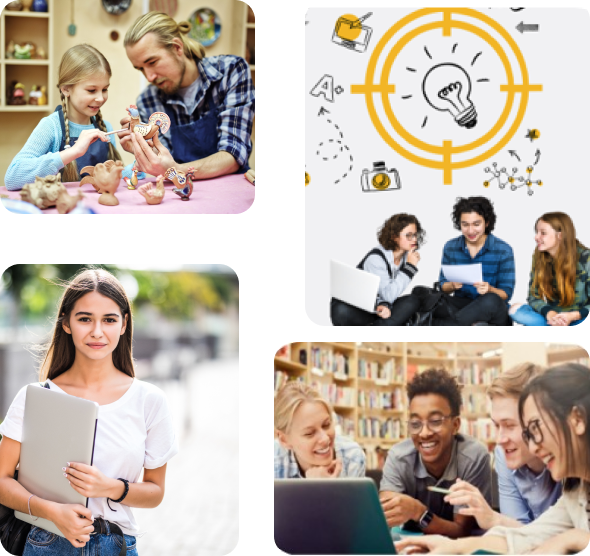
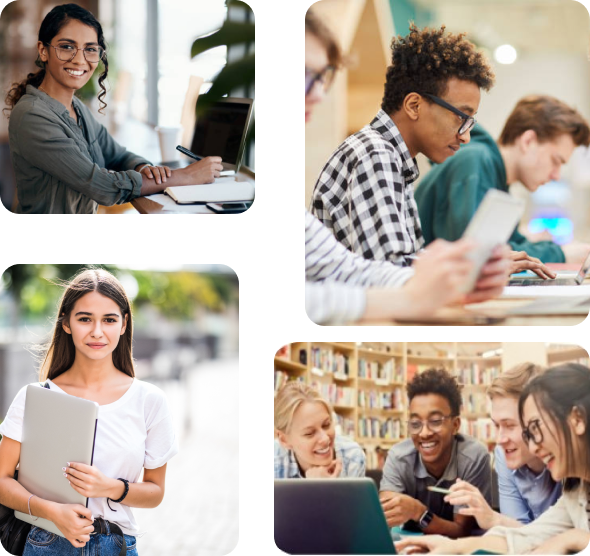
changes

diff --git a/index.html b/index.html
@@ -76,62 +76,77 @@
     <h2 class="head">"Fostering Next-Gen Entrepreneurs & <br /> Sustainable Leaders" </h2>
     <div class="row">
       <div class="col-sm-3 btn-blue btn-top ">
-      
+
         <ul class="nav-pills">
-        <li class="active"><a data-toggle="pill" href="#stat">Stats</a></li>
-        <li><a data-toggle="pill" href="#objective">Objectives</a></li>
-        <li><a data-toggle="pill" href="#vision">Vision</a></li>
-        <li><a data-toggle="pill" href="#goal">Goals</a></li>
+          <li class="active"><a data-toggle="pill" href="#stat">Stats</a></li>
+          <li><a data-toggle="pill" href="#objective">Objectives</a></li>
+          <li><a data-toggle="pill" href="#vision">Vision</a></li>
+          <li><a data-toggle="pill" href="#goal">Goals</a></li>
         </ul>
       </div>
 
-      <div class="col-sm-8 position-relative">
+      <div class="col-sm-8 ">
         <div class=" ">
           <div class="tab-content">
-            <div id="stat" class="tab-pane fade in active">
+            <div id="stat" class="tab-pane fade in active position-relative">
               <p class="entre-txt">Stats</p>
 
               <div class="bg-color-blue entrepreneures">
-              <p>The gruesome stats clinging on generation on generation has only reduced innovation and eradicated productive work across america. We are pretty proud to share that we are working on to improve these dire stats and help people become the next generation of leader.</p>
-                </div>
+                <p>The gruesome stats clinging on generation on generation has only reduced innovation and eradicated
+                  productive work across america. We are pretty proud to share that we are working on to improve these
+                  dire stats and help people become the next generation of leader.</p>
+              </div>
+              <div class="tranches">
+                <img src="./assets/image/stats.png">
+              </div>
             </div>
             <div id="objective" class="tab-pane fade">
               <p class="entre-txt">Objectives</p>
 
               <div class="bg-color-blue entrepreneures">
-              <p>To empower and support the next generation of entrepreneurs by providing a platform for kid-led businesses, mentorship, peer-to-peer learning opportunities, and access to resources for academic and extracurricular development.</p>
-                </div>
+                <p>To empower and support the next generation of entrepreneurs by providing a platform for kid-led
+                  businesses, mentorship, peer-to-peer learning opportunities, and access to resources for academic and
+                  extracurricular development.</p>
+              </div>
+              <div class="tranches">
+                <img src="./assets/image/Objective image.png">
+              </div>
             </div>
             <div id="vision" class="tab-pane fade">
               <p class="entre-txt">vision</p>
 
               <div class="bg-color-blue entrepreneures">
-              <p>Create a community of young, innovative, and successful entrepreneurs who are equipped with the skills and resources to help them envision & achieve their goals and make a positive impact on the world.</p>
-                </div>
-              
+                <p>Create a community of young, innovative, and successful entrepreneurs who are equipped with the
+                  skills and resources to help them envision & achieve their goals and make a positive impact on the
+                  world.</p>
+              </div>
+              <div class="tranches">
+                <img src="./assets/image/Vision image.png">
+              </div>
             </div>
             <div id="goal" class="tab-pane fade">
               <p class="entre-txt">Goal</p>
 
               <div class="bg-color-blue entrepreneures">
-              <p>  To establish a successful and profitable marketplace for kid-led businesses. </p>
+                <p> To establish a successful and profitable marketplace for kid-led businesses. </p>
 
-              <p> To provide mentorship and resources for kid entrepreneurs to help them succeed. </p>
+                <p> To provide mentorship and resources for kid entrepreneurs to help them succeed. </p>
 
                 <p> To help students fund their businesses</p>
-                </div>
+              </div>
+              <div class="tranches">
+                <img src="./assets/image/Goals image.png">
+              </div>
             </div>
           </div>
         </div>
 
-        <div class="tranches">
-          <img src="./assets/image/stats.jpeg">
-        </div>
-        
-        </div>
-      
+     
+
       </div>
+
     </div>
+  </div>
   </div>
 
 
@@ -144,24 +159,28 @@
     <div class="container">
       <div class="row txt-align">
         <div class="col-sm-3 width-100">
-          <img src="./assets/image/Rectangle 702.png">
-          <h3 class="text-center">Enterpreneurship</h3>
-          <p class="">Online & On-site entrepreneurship bootcamp forging entrepreneurship among students through curriculum designed by industry leaders & school experts.</p>
+          <img src="./assets/image/Ecommerce image.png">
+          <h3 class="text-center">Ecommerce</h3>
+          <p class="">World’s first ecommerce marketplace fostering next-generation of american entrepreneurs &
+            providing practical entrepreneurial exposure</p>
         </div>
         <div class="col-sm-3  width-100">
-          <img src="./assets/image/Rectangle 702 (1).png">
-          <h3 class="text-center">Ecommerce</h2>
-            <p class="">World’s first ecommerce marketplace fostering next-generation of american entrepreneurs & providing practical entrepreneurial exposure.</p>
-        </div>
-        <div class="col-sm-3  width-100">
-          <img src="./assets/image/Rectangle 702 (2).png">
+          <img src="./assets/image/Community Building image.png">
           <h3 class="text-center">Community Building</h2>
-            <p>A dedicated community of students building and creating businesses and offering highly skilled freelance services.</p>
+            <p class="">A dedicated community of students building and creating businesses and offering highly skilled
+              freelance services.</p>
         </div>
         <div class="col-sm-3  width-100">
-          <img src="./assets/image/Rectangle 702 (3).png">
+          <img src="./assets/image/Enterpreneurship image.png">
+          <h3 class="text-center">Enterpreneurship</h2>
+            <p>Online & On-site entrepreneurship bootcamp forging entrepreneurship among students through curriculum
+              designed by industry leaders & school experts. </p>
+        </div>
+        <div class="col-sm-3  width-100">
+          <img src="./assets/image/Mentorship.png">
           <h3 class="text-center">Mentorship</h2>
-            <p class="">Industry leaders & top academic experts get together to create a curriculum that places the founder hat on students and help in development of creative as well as analytical skills.</p>
+            <p class="">Industry leaders & top academic experts get together to create a curriculum that places the
+              founder hat on students and help in development of creative as well as analytical skills.</p>
         </div>
       </div>
     </div>
@@ -171,22 +190,24 @@
     <div class="text-center ">
       <h2 class="head">In the News</h2>
     </div>
-    <div class="row">
-      <div class="col-sm-3">
-        <img src="./assets/image/news image1.jpeg" class="image-width">
-      </div>
-      <div class="col-sm-3">
-        <img src="./assets/image/news image2.jpeg" class="image-width">
-      </div>
-      <div class="col-sm-3">
-        <img src="./assets/image/news image3.jpg" class="image-width">
-      </div>
-      <div class="col-sm-3">
-        <img src="./assets/image/news image4.jpeg" class="image-width">
+    <div class="bg-color">
+      <div class="row">
+        <div class="col-sm-3 text-center">
+          <img src="./assets/image/news image1.png">
+        </div>
+        <div class="col-sm-3 text-center">
+          <img src="./assets/image/news image2.png">
+        </div>
+        <div class="col-sm-3 text-center">
+          <img src="./assets/image/news image3.png">
+        </div>
+        <div class="col-sm-3 text-center">
+          <img src="./assets/image/news image4.png">
+        </div>
       </div>
     </div>
   </div>
-  
+
 
   <div class="text-center " id="backers">
     <h2 class="head mt-100">Our Strong Backers</h2>
@@ -218,9 +239,9 @@
 
           </div>
         </div>
-       
 
-       
+
+
       </div>
     </div>
   </div>
@@ -401,10 +422,11 @@
               <img src="./assets/image/story 1.png">
             </div>
             <div class="col-sm-4">
-             <img src="./assets/image/story 2.png">
+              <img src="./assets/image/story 2.png">
             </div>
             <div class="col-sm-4">
-              <a href="https://www.instagram.com/tv/Cj8wY5nAlCy/?igshid=YmMyMTA2M2Y%3D" target="_blank"><img src="./assets/image/story 3.png"></a> 
+              <a href="https://www.instagram.com/tv/Cj8wY5nAlCy/?igshid=YmMyMTA2M2Y%3D" target="_blank"><img
+                  src="./assets/image/story 3.png"></a>
             </div>
           </div>
         </div>
@@ -418,7 +440,8 @@
               <img src="./assets/image/story 2.png">
             </div>
             <div class="col-sm-4">
-              <a href="https://www.instagram.com/tv/Cj8wY5nAlCy/?igshid=YmMyMTA2M2Y%3D" target="_blank"><img src="./assets/image/story 3.png"></a> 
+              <a href="https://www.instagram.com/tv/Cj8wY5nAlCy/?igshid=YmMyMTA2M2Y%3D" target="_blank"><img
+                  src="./assets/image/story 3.png"></a>
             </div>
           </div>
         </div>
@@ -432,7 +455,8 @@
               <img src="./assets/image/story 2.png">
             </div>
             <div class="col-sm-4">
-              <a href="https://www.instagram.com/tv/Cj8wY5nAlCy/?igshid=YmMyMTA2M2Y%3D" target="_blank"><img src="./assets/image/story 3.png"></a> 
+              <a href="https://www.instagram.com/tv/Cj8wY5nAlCy/?igshid=YmMyMTA2M2Y%3D" target="_blank"><img
+                  src="./assets/image/story 3.png"></a>
             </div>
           </div>
         </div>
@@ -465,8 +489,8 @@
     <div class="row">
       <div class="col-sm-12">
         <div class="contact-section button">
-          <input class="form-control" placeholder="Full name here" type="text" required>
-          <input class="form-control" placeholder="Your email address" type="text" required>
+          <input class="form-control" placeholder="Full name here" id="name" type="text" required>
+          <input class="form-control" placeholder="Your email address" id="email" type="text" required>
 
           <div class="cat action ml-0">
             <label>
@@ -494,20 +518,31 @@
 
         </div>
         <div class="contact-section text-msg">
-          <TEXTAREA class="form-control" placeholder="Type your message here" type="text"></TEXTAREA>
+          <TEXTAREA class="form-control" placeholder="Type your message here" id="comment" type="text"></TEXTAREA>
         </div>
         <div class="contact-section">
-          <button class="submit-btn">Submit</button>
+          <button class="submit-btn" onclick="submit()">Submit</button>
         </div>
+
       </div>
     </div>
+    <script>
+      function submit() {
+        console.log("hgsjfhd");
+        const name = document.getElementById('name').value;
+        const email = document.getElementById('email').value;
+        const comment = document.getElementById('comment').value;
+        console.log("name", name, "email", email, "comment", comment);
+      }
+
+    </script>
   </div>
 
   <section class="footer">
     <div class="container">
       <div class="pull-left">
         <div>
-          <span>Copyright © 2023. All rights reserved by  <a href=""> Flagship</a></span>
+          <span>Copyright © 2023. All rights reserved by <a href=""> Flagship</a></span>
           <a href="">Privacy Polices</a>
           <a href="">Terms & Conditions</a>
         </div>
@@ -525,9 +560,11 @@
           <a href=""><i class="fa fa-instagram"></i></a>
           <a href=""><i class="fa fa-twitter"></i></a>
           <a href=""><i class="fa fa-linkedin"></i></a>
-          <a href=""><svg xmlns="http://www.w3.org/2000/svg" width="16" height="16" fill="currentColor" class="bi bi-discord" viewBox="0 0 16 16">
-            <path d="M13.545 2.907a13.227 13.227 0 0 0-3.257-1.011.05.05 0 0 0-.052.025c-.141.25-.297.577-.406.833a12.19 12.19 0 0 0-3.658 0 8.258 8.258 0 0 0-.412-.833.051.051 0 0 0-.052-.025c-1.125.194-2.22.534-3.257 1.011a.041.041 0 0 0-.021.018C.356 6.024-.213 9.047.066 12.032c.001.014.01.028.021.037a13.276 13.276 0 0 0 3.995 2.02.05.05 0 0 0 .056-.019c.308-.42.582-.863.818-1.329a.05.05 0 0 0-.01-.059.051.051 0 0 0-.018-.011 8.875 8.875 0 0 1-1.248-.595.05.05 0 0 1-.02-.066.051.051 0 0 1 .015-.019c.084-.063.168-.129.248-.195a.05.05 0 0 1 .051-.007c2.619 1.196 5.454 1.196 8.041 0a.052.052 0 0 1 .053.007c.08.066.164.132.248.195a.051.051 0 0 1-.004.085 8.254 8.254 0 0 1-1.249.594.05.05 0 0 0-.03.03.052.052 0 0 0 .003.041c.24.465.515.909.817 1.329a.05.05 0 0 0 .056.019 13.235 13.235 0 0 0 4.001-2.02.049.049 0 0 0 .021-.037c.334-3.451-.559-6.449-2.366-9.106a.034.034 0 0 0-.02-.019Zm-8.198 7.307c-.789 0-1.438-.724-1.438-1.612 0-.889.637-1.613 1.438-1.613.807 0 1.45.73 1.438 1.613 0 .888-.637 1.612-1.438 1.612Zm5.316 0c-.788 0-1.438-.724-1.438-1.612 0-.889.637-1.613 1.438-1.613.807 0 1.451.73 1.438 1.613 0 .888-.631 1.612-1.438 1.612Z"/>
-          </svg></a>
+          <a href=""><svg xmlns="http://www.w3.org/2000/svg" width="16" height="16" fill="currentColor"
+              class="bi bi-discord" viewBox="0 0 16 16">
+              <path
+                d="M13.545 2.907a13.227 13.227 0 0 0-3.257-1.011.05.05 0 0 0-.052.025c-.141.25-.297.577-.406.833a12.19 12.19 0 0 0-3.658 0 8.258 8.258 0 0 0-.412-.833.051.051 0 0 0-.052-.025c-1.125.194-2.22.534-3.257 1.011a.041.041 0 0 0-.021.018C.356 6.024-.213 9.047.066 12.032c.001.014.01.028.021.037a13.276 13.276 0 0 0 3.995 2.02.05.05 0 0 0 .056-.019c.308-.42.582-.863.818-1.329a.05.05 0 0 0-.01-.059.051.051 0 0 0-.018-.011 8.875 8.875 0 0 1-1.248-.595.05.05 0 0 1-.02-.066.051.051 0 0 1 .015-.019c.084-.063.168-.129.248-.195a.05.05 0 0 1 .051-.007c2.619 1.196 5.454 1.196 8.041 0a.052.052 0 0 1 .053.007c.08.066.164.132.248.195a.051.051 0 0 1-.004.085 8.254 8.254 0 0 1-1.249.594.05.05 0 0 0-.03.03.052.052 0 0 0 .003.041c.24.465.515.909.817 1.329a.05.05 0 0 0 .056.019 13.235 13.235 0 0 0 4.001-2.02.049.049 0 0 0 .021-.037c.334-3.451-.559-6.449-2.366-9.106a.034.034 0 0 0-.02-.019Zm-8.198 7.307c-.789 0-1.438-.724-1.438-1.612 0-.889.637-1.613 1.438-1.613.807 0 1.45.73 1.438 1.613 0 .888-.637 1.612-1.438 1.612Zm5.316 0c-.788 0-1.438-.724-1.438-1.612 0-.889.637-1.613 1.438-1.613.807 0 1.451.73 1.438 1.613 0 .888-.631 1.612-1.438 1.612Z" />
+            </svg></a>
         </div>
       </div>
     </div>

diff --git a/assets/css/style.css b/assets/css/style.css
@@ -123,6 +123,7 @@ h1 {
 .bg-color {
   background: #fdf6e3;
   padding: 30px 0px 30px 0px;
+  border-radius: 30px;
 }
 
 .bg-color-yellow {
@@ -145,8 +146,8 @@ h1 {
 .tranches img {
   display: inline;
   position: absolute;
-  top: -54px;
-  right: 0;
+  top: -104px;
+  right: -19px;
 }
 
 .position-relative {
@@ -300,6 +301,12 @@ h1 {
   height: 110px;
   margin-top: 20px;
 }
+
+.text-msg TEXTAREA {
+  border-radius: 20px;
+}
+
+
 
 .home {
   margin-top: 145px;
